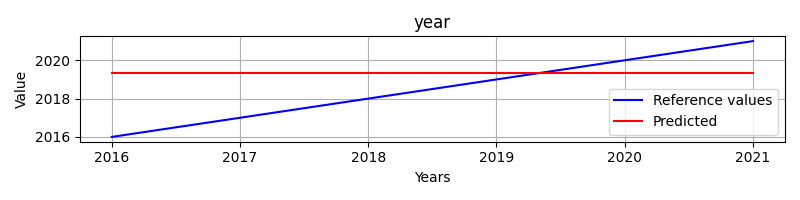
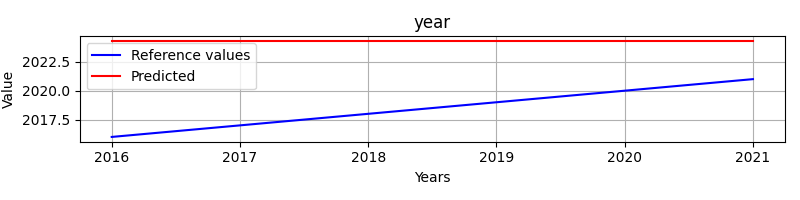
add results from model optimisation with optuna experiment

Changed region(s): [[0.0, 0.18, 1.0, 0.72]]

diff --git a/local_model_benchmark/experiments/model_experiments.py b/local_model_benchmark/experiments/model_experiments.py
@@ -530,24 +530,24 @@ class CompareLSTMARIMAExperiment(BaseExperiment):
 def run_experiments():
 
     # Exp1
-    # logger.info("Running experiment 1...")
-    # exp1 = OptimalParamsExperiment(
-    #     name="OptimalParamsExperiment",
-    #     description="The goal is to find the optimal parameters for the given LocalModel model.",
-    #     hidden_size_range=(128, 2048),
-    #     sequence_length_range=(10, 15),
-    #     num_layers_range=(1, 5),
-    #     learning_rate_range=(1e-5, 1e-2),
-    # )
-    # exp1.run(state="Czechia", split_rate=0.8, features=FEATURES)
+    logger.info("Running experiment 1...")
+    exp1 = OptimalParamsExperiment(
+        name="OptimalParamsExperiment",
+        description="The goal is to find the optimal parameters for the given LocalModel model.",
+        hidden_size_range=(128, 2048),
+        sequence_length_range=(10, 15),
+        num_layers_range=(1, 5),
+        learning_rate_range=(1e-5, 1e-2),
+    )
+    exp1.run(state="Czechia", split_rate=0.8, features=FEATURES)
 
     # Exp2
-    logger.info("Running experiment 2...")
-    exp2 = CompareLSTMARIMAExperiment(
-        name="CompareLSTMARIMAExperiment",
-        description="Compares the performance of LSTM model with the statistical ARIMA model for all features prediction. Each model is trained just to predict 1 feauture from all features.",
-    )
-    exp2.run(state="Czechia", split_rate=0.8, features=ALL_FEATURES)
+    # logger.info("Running experiment 2...")
+    # exp2 = CompareLSTMARIMAExperiment(
+    #     name="CompareLSTMARIMAExperiment",
+    #     description="Compares the performance of LSTM model with the statistical ARIMA model for all features prediction. Each model is trained just to predict 1 feauture from all features.",
+    # )
+    # exp2.run(state="Czechia", split_rate=0.8, features=ALL_FEATURES)
 
 
 if __name__ == "__main__":

diff --git a/local_model_benchmark/experiment_results/OptimalParamsExperiment/README.md b/local_model_benchmark/experiment_results/OptimalParamsExperiment/README.md
@@ -3,3 +3,60 @@
 
 **Description:** The goal is to find the optimal parameters for the given LocalModel model.
 
+# Base model evaluation
+Hyperparameters:
+```
+Input size:         1
+Batch size:         1
+
+Hidden size:        256
+Sequence length:    10
+Layers:             3
+
+Learning rate:      0.0001
+Epochs:             20
+
+Bidirectional:      False
+```
+
+## Base model predicted vs reference values
+Displays the performance for every feature predicted of the `Base Model`.
+
+![Base model predicted vs reference values](./plots/base_model_eval.png)
+
+# Optimal model evaluation
+Hyperparameters:
+```
+Input size:         1
+Batch size:         1
+
+Hidden size:        959
+Sequence length:    10
+Layers:             1
+
+Learning rate:      0.008404695959103137
+Epochs:             20
+
+Bidirectional:      False
+```
+
+
+## Optimal model predicted vs reference values
+Displays the performance for every feature predicted of the `Optimal Model`.
+
+![Optimal model predicted vs reference values](./plots/optimal_model_eval.png)
+
+# Compare metric results
+
+Base model:
+{'mae': 1.8177286783854545,
+ 'mse': 3.42414460331214,
+ 'r2': -0.17399243542132026,
+ 'rmse': 1.850444433997449}
+
+Optimal model:
+{'mae': 5.789184570312462,
+ 'mse': 36.43132465581051,
+ 'r2': -11.490739881992338,
+ 'rmse': 6.035836698901861}
+
